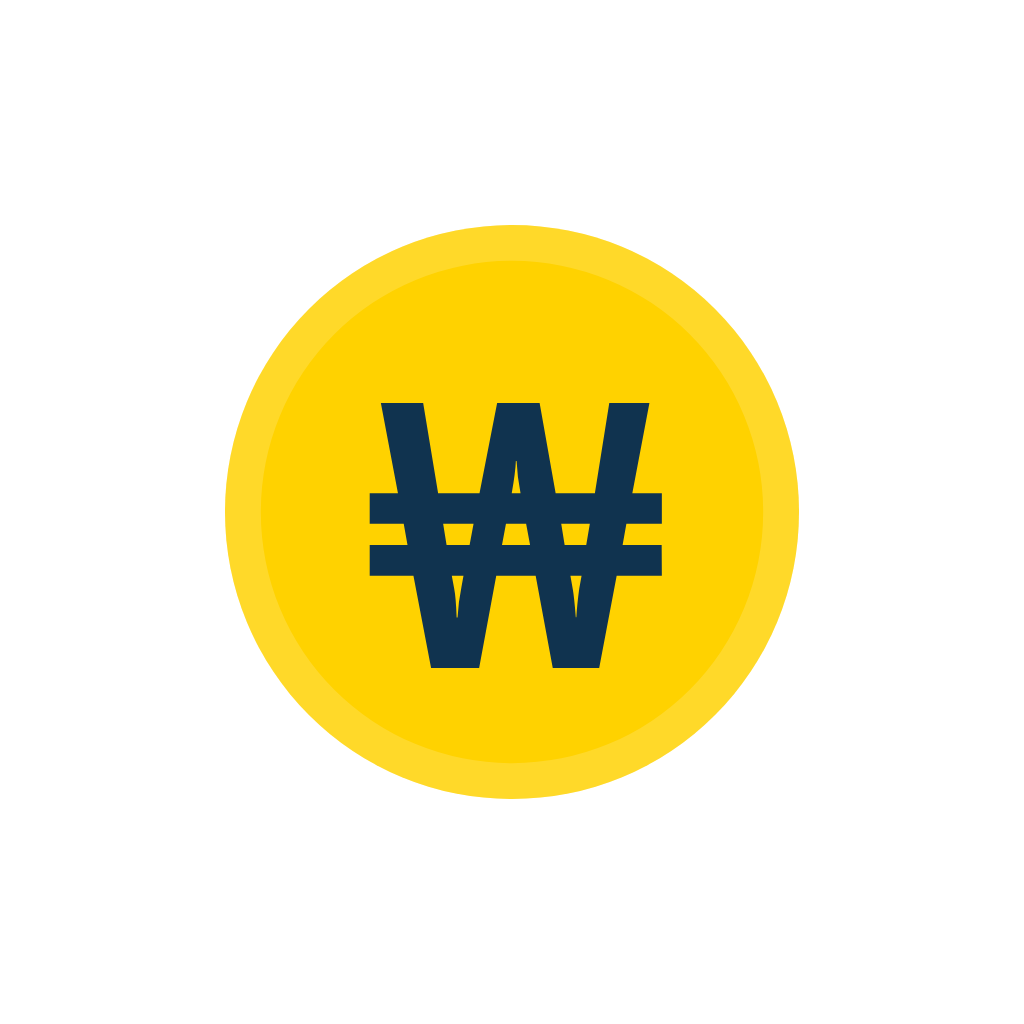
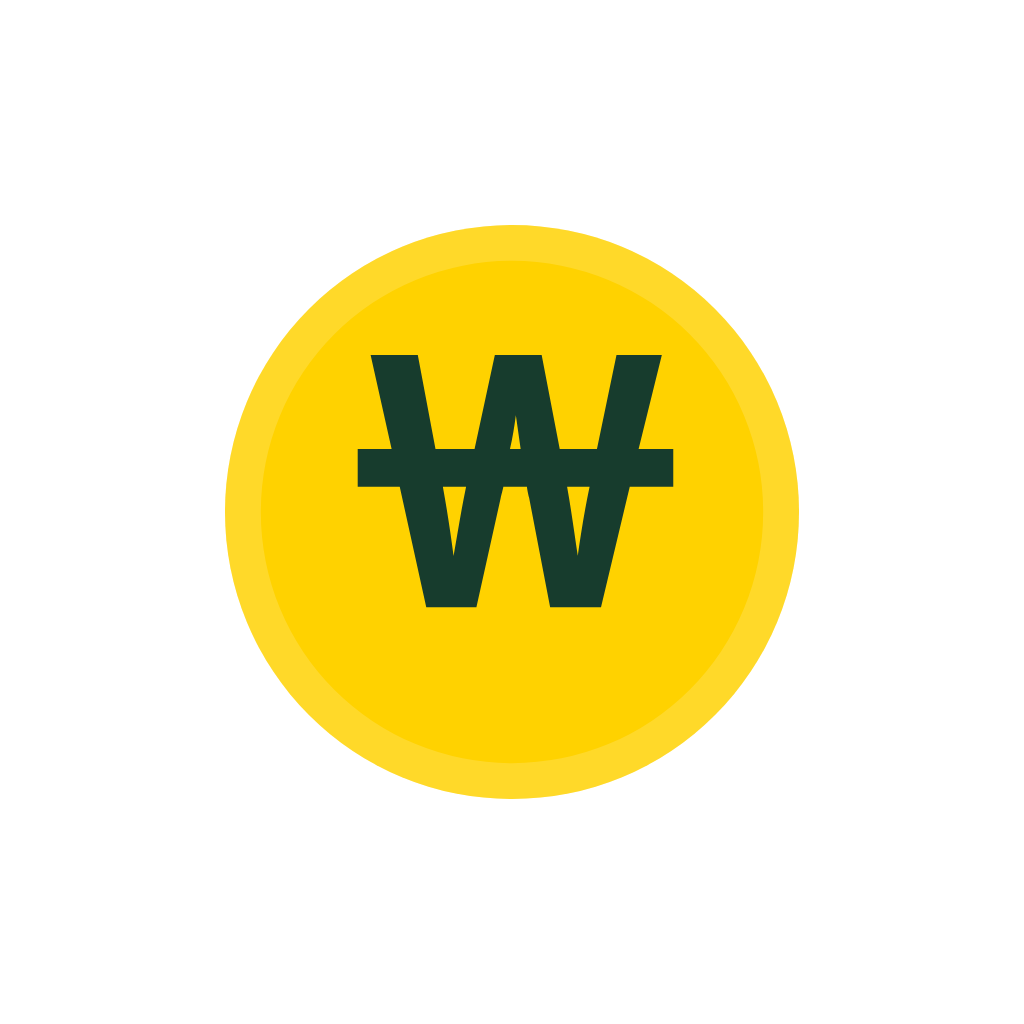
feat(brand): 스테이징 브랜드를 '지원금 살펴줌' + 그린/골드 팔레트로 전환
시니어 색채지각 리서치: 노화는 청색 계열부터 지각이 흐려짐 — 기존
Phase 3 스테이징 자산이 남색(#154c76) 기반이라 이 타겟에 불리했음.
남색을 전부 그린(#295f48)으로 교체, 노랑 코인은 유지(이미 난색이라
방향이 맞았음). 이름 후보를 '어르신 지원금'에서 '지원금 살펴줌'으로
전환(KIPRIS 상표 검색 전, 최종 확정 아님).

- tools/brand-assets/template.html: 팔레트·워드마크 교체, render.mjs로
  assets/rebrand/*·store/rebrand/* 재생성(웹 라이브 자산 web/public/og.png·
  web/app/icon.png는 영향받지 않도록 별도로 원복함 — HANDOFF에 주의사항 기록)
- app.config.js: dev/preview 전용 브랜드명 교체. production은 기존대로
  '지원금 모아보기' 유지, 영향 없음
- AppSplash.js: extra.rebrand 플래그로 게이팅 추가 — 이전엔 이 컴포넌트가
  무조건 렌더돼 프로덕션에도 신규 브랜드명이 새어나갈 수 있던 버그.
  rebrand=false(production)면 null 반환해 네이티브 구브랜드 스플래시에 위임
- 에뮬레이터에서 앱 이름·아이콘·네이티브 스플래시 색상 반영 확인

Changed region(s): [[0.3438, 0.3438, 0.6562, 0.6562]]

diff --git a/tools/brand-assets/template.html b/tools/brand-assets/template.html
@@ -4,9 +4,10 @@
 <meta charset="utf-8" />
 <style>
   :root {
-    --navy: #154c76;
-    --navy-deep: #0f3a5a;
-    --navy-ink: #10334f;
+    /* 시니어 색채지각 리서치: 청색 계열은 노화로 가장 먼저 흐려짐 → 남색 대신 난색(그린+옐로) 조합으로 교체 */
+    --green: #295f48;
+    --green-deep: #173c2d;
+    --green-ink: #173c2d;
     --yellow: #ffd200;
     --yellow-soft: #ffdf4d;
     --white: #ffffff;
@@ -32,37 +33,37 @@
   /* ====================== 정사각 아이콘류 ====================== */
   body.square .stage { background: transparent; }
 
-  /* icon: 네이비 배경 + 노랑 디스크 + 네이비 원화 */
-  body.icon .stage { background: linear-gradient(150deg, #1a5989, #133f63); }
+  /* icon: 그린 배경 + 노랑 디스크 + 그린 원화 */
+  body.icon .stage { background: linear-gradient(150deg, #2f6d54, var(--green-deep)); }
   body.icon .disc { width: 62vmin; height: 62vmin; background: var(--yellow);
     box-shadow: inset 0 0 0 4vmin rgba(255,255,255,0.14), 0 6vmin 12vmin rgba(0,0,0,0.22); }
-  body.icon .won { font-size: 40vmin; color: var(--navy-ink); }
+  body.icon .won { font-size: 40vmin; color: var(--green-ink); }
 
   /* foreground: 투명 배경 + 노랑 디스크(어댑티브 안전영역) */
   body.foreground .stage { background: transparent; }
   body.foreground .disc { width: 56vmin; height: 56vmin; background: var(--yellow);
     box-shadow: inset 0 0 0 3.5vmin rgba(255,255,255,0.16); }
-  body.foreground .won { font-size: 36vmin; color: var(--navy-ink); }
+  body.foreground .won { font-size: 36vmin; color: var(--green-ink); }
 
-  /* background: 단색 네이비 */
-  body.background .stage { background: linear-gradient(150deg, #1a5989, #133f63); }
+  /* background: 단색 그린 */
+  body.background .stage { background: linear-gradient(150deg, #2f6d54, var(--green-deep)); }
 
   /* mono / notification: 흰색 원화 실루엣, 투명 배경 */
   body.mono .stage, body.notification .stage { background: transparent; }
   body.mono .won, body.notification .won { font-size: 62vmin; color: #ffffff; }
 
-  /* splash: 투명 배경 + 네이비 디스크 + 흰 원화 (노란 스플래시 배경 위에서 대비) */
+  /* splash: 투명 배경 + 그린 디스크 + 노랑 원화 (노란 스플래시 배경 위에서 대비) */
   body.splash .stage { background: transparent; }
-  body.splash .disc { width: 68vmin; height: 68vmin; background: var(--navy);
+  body.splash .disc { width: 68vmin; height: 68vmin; background: var(--green);
     box-shadow: 0 4vmin 10vmin rgba(0,0,0,0.18); }
   body.splash .won { font-size: 40vmin; color: var(--yellow); }
 
   /* ====================== 가로형(피처그래픽 / OG) ====================== */
-  body.wide .stage { background: radial-gradient(120% 140% at 18% 20%, #1e6499 0%, #133f63 62%, #0e3350 100%); }
+  body.wide .stage { background: radial-gradient(120% 140% at 18% 20%, #2f6d54 0%, var(--green-deep) 62%, #0f2b20 100%); }
   .wideWrap { display: flex; align-items: center; gap: 6.5vh; padding: 0 8vh; }
   .wideDisc { flex: none; display: flex; align-items: center; justify-content: center;
     border-radius: 50%; background: var(--yellow); }
-  .wideDisc .won { color: var(--navy-ink); }
+  .wideDisc .won { color: var(--green-ink); }
   .wideText { display: flex; flex-direction: column; }
   .wideBrand { color: #fff; font-weight: 900; letter-spacing: -0.03em; line-height: 1.05; }
   .wideTagline { color: var(--yellow-soft); font-weight: 700; }
@@ -91,7 +92,7 @@
     <div class="wideWrap" hidden>
       <div class="wideDisc"><span class="won">₩</span></div>
       <div class="wideText">
-        <div class="wideBrand">어르신 지원금</div>
+        <div class="wideBrand">지원금 살펴줌</div>
         <div class="wideTagline">단어 하나로 찾는 정부 지원금</div>
         <div class="wideDomain">senior.zucca100.com</div>
       </div>

diff --git a/src/components/AppSplash.js b/src/components/AppSplash.js
@@ -1,15 +1,22 @@
 import React from 'react';
 import { View, Text, StyleSheet } from 'react-native';
+import Constants from 'expo-constants';
 
-// 코드로 그린 스플래시 — 노란 배경(네이티브 스플래시와 동일) + 네이비 코인(₩) + '어르신 지원금'.
+// 코드로 그린 스플래시 — 신규 브랜드 후보(지원금 살펴줌) 전용.
 // (네이티브 스플래시 이미지는 안드로이드 12+에서 아이콘 영역으로 잘려 텍스트가 깨지므로 코드로 렌더한다.)
+// rebrand 플래그가 꺼진 프로덕션(§Phase3 미승인)에서는 아무것도 그리지 않고
+// app.config.js가 이미 올려둔 구브랜드 네이티브 스플래시에 맡긴다.
+const REBRAND = !!Constants.expoConfig?.extra?.rebrand;
+
 export default function AppSplash() {
+  if (!REBRAND) return null;
+
   return (
     <View style={styles.root}>
       <View style={styles.coin}>
         <Text style={styles.won} allowFontScaling={false}>₩</Text>
       </View>
-      <Text style={styles.wordmark} allowFontScaling={false}>어르신 지원금</Text>
+      <Text style={styles.wordmark} allowFontScaling={false}>지원금 살펴줌</Text>
     </View>
   );
 }
@@ -25,7 +32,7 @@ const styles = StyleSheet.create({
     width: 132,
     height: 132,
     borderRadius: 66,
-    backgroundColor: '#154c76',
+    backgroundColor: '#295f48',
     alignItems: 'center',
     justifyContent: 'center',
     marginBottom: 22,
@@ -37,7 +44,7 @@ const styles = StyleSheet.create({
     lineHeight: 84,
   },
   wordmark: {
-    color: '#10334f',
+    color: '#173c2d',
     fontSize: 34,
     fontWeight: '800',
     letterSpacing: 0.2,

diff --git a/app.config.js b/app.config.js
@@ -32,7 +32,7 @@ module.exports = ({ config }) => {
 
   return {
     ...config,
-    name: rebrand ? '어르신 지원금' : config.name,
+    name: rebrand ? '지원금 살펴줌' : config.name,
     icon: rebrand ? './assets/rebrand/icon.png' : config.icon,
     android: {
       ...config.android,

diff --git a/HANDOFF.md b/HANDOFF.md
@@ -6,7 +6,9 @@
 
 - **대상 앱**: `com.jiwongum.app` — Google Play / App Store **라이브** 앱의 대규모 리브랜딩 업데이트
 - **스택**: Expo SDK 57 / React Native, WebView 래퍼(`senior.zucca100.com`), Supabase, AdMob
-- **현재 브랜드(프로덕션)**: `지원금 모아보기` → 목표 브랜드 `어르신 지원금`
+- **현재 브랜드(프로덕션)**: `지원금 모아보기` → 목표 브랜드는 검토 중
+  - **웹(Phase 1, 이미 라이브)**: `어르신 지원금` — 변경 없음, 그대로 유지
+  - **앱 아이콘/스플래시 스테이징(Phase 3, 미출시)**: 2026-08-19부터 `지원금 살펴줌`으로 후보 전환해 탐색 중(§2 "브랜드 재정의" 참고). **KIPRIS 상표 검색 전이라 최종 확정 아님.** 웹과 앱 후보 이름이 지금 서로 다른 상태 — Phase 3 최종 확정 시 웹도 같이 맞출지 결정 필요.
 - **기준 커밋**: 이 문서를 포함한 커밋 (아래 "커밋에 포함된 변경" 참조)
 - ⚠ **불변 제약**: 패키지명 `com.jiwongum.app`·서명키 변경 금지 / localStorage 키·Supabase 푸시 토큰 보존 / 브랜드 전환은 **편도(되돌릴 수 없음)**
 
@@ -33,10 +35,10 @@
 
 ### Phase 3 준비물 (스테이징만, 프로덕션 미반영)
 - **동적 Expo 설정** `app.config.js` (신규): EAS 프로파일별 `skipIntegrity` 주입 + 브랜드 게이트.
-  - dev/preview → 새 브랜드(`어르신 지원금`, `assets/rebrand/*`) + `skipIntegrity=true`
+  - dev/preview → 새 브랜드 후보(`지원금 살펴줌`, `assets/rebrand/*`) + `skipIntegrity=true`
   - **production → 구브랜드 유지** + `skipIntegrity=false`. 새 브랜드 강제 시 `EXPO_PUBLIC_REBRAND=1`
-- **코드 스플래시** `src/components/AppSplash.js`: 네이비 코인(₩) + `어르신 지원금` (노란 배경 유지)
-- **브랜드 에셋 생성기** `tools/brand-assets/`(`render.mjs`+`template.html`, Chrome 헤드리스)
+- **코드 스플래시** `src/components/AppSplash.js`: 이제 `extra.rebrand` 플래그로 게이팅됨(이전엔 무조건 렌더 — 프로덕션에도 새 이름이 새어나갈 수 있던 버그를 같이 고침). rebrand=true일 때만 그린 코인(₩) + `지원금 살펴줌` 렌더, false면 `null`(네이티브 구브랜드 스플래시에 위임).
+- **브랜드 에셋 생성기** `tools/brand-assets/`(`render.mjs`+`template.html`, Chrome 헤드리스). 2026-08-19: 팔레트를 남색→그린/골드로 전환(시니어는 청색 계열 지각이 먼저 떨어짐), 워드마크를 `지원금 살펴줌`으로 교체. **`render.mjs`는 `web/public/og.png`·`web/app/icon.png`(라이브 웹 자산)도 같이 재생성하므로, 실행 후 그 두 파일은 `git checkout`으로 되돌려야 라이브 웹 브랜드가 그대로 유지된다.**
 - **에셋 스테이징**: `assets/rebrand/*`(앱 아이콘/스플래시/알림/파비콘), `store/rebrand/*`(스토어 아이콘·피처그래픽) — **app.json 미반영**
 
 ### 문서
